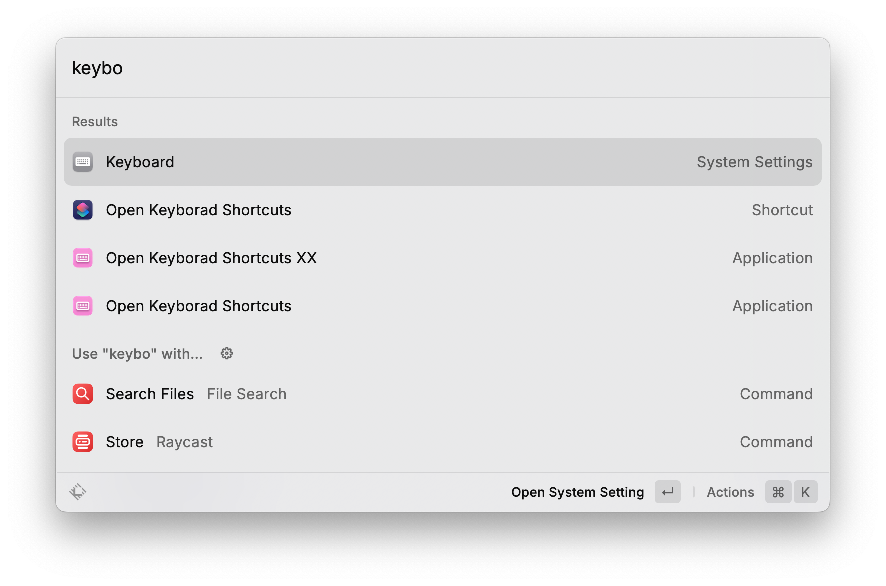
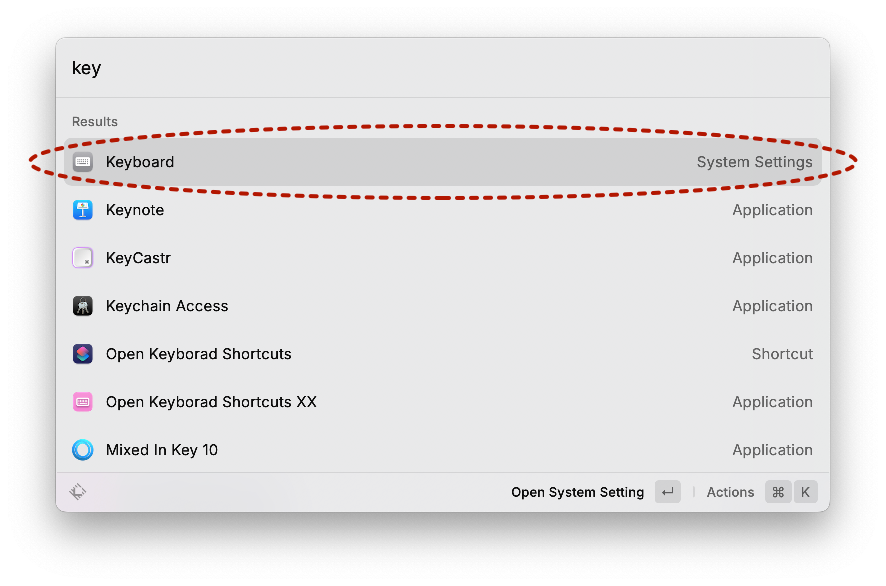
Working on content and add new images

diff --git a/content/post/shortcuts-for-mac.md b/content/post/shortcuts-for-mac.md
@@ -12,16 +12,19 @@ description: 'How to create, edit or remove shortcuts for a macOS'
 tags: ['macOS', 'Shortcuts', 'Sketch', 'Productivity']
 ---
 
-The macOS and the apps installed comes pack with sweet shortcuts but not all is perfect. You can easily find yourself doing the same task over and over again by navigating and clicking items in menus unfitting to [Fitts’s Law](https:/www.notion.so/yonatankof/Fitts-law-062770ad1eff4310aff2a6814467647c). 
+The macOS and its apps comes packed with sweet and effective commands like *Merge All Windows* – but not all is perfect. You can easily find yourself doing the same task over and over again by navigating and clicking items in menus unfitting to [Fitts’s Law](https:/www.notion.so/yonatankof/Fitts-law-062770ad1eff4310aff2a6814467647c). 
 
-Even worse, you didn't click that command because you where too damn lazy navigating them menus. Thus hindering your workflow — which is already quite crippled. Such a shame.
+![The Merge All Windows command in action triggered manually from the menu](/posts/shortcuts-for-macos/Merge_All_Windows_Example.webp)
+*The `Merge All Windows` command in action triggered manually from the menu ☝*
 
-## This article will help you!
+Even worse, you didn't execute the command because you where too damn lazy navigating them menus, thus hindering your workflow — which is already quite crippled. Such a shame.
+
+## How will this article help you?
 
 If you don't know how to create shortcuts for mac, this article will help you by learning:
 
-1. How to set up a shortcut on *macOS*
-2. How to create a shortcut for a specific app
+1. How to set up shortcuts on *macOS*
+2. How to create shortcuts for a specific app
 3. How to override exciting shortcuts
 4. Some advance shortcut methods 
  
@@ -31,7 +34,7 @@ Here are two use cases where custom shortcuts will improve your workflow:
 
 1. **Merge All Windows** - This command is relevant for **all** apps that are multi window: Let's say you find yourself with 7 open *Sketch* files and 6 *Finder* windows, and you're clicking like crazy trying to find the window you're looking for. What an hassle. 
 
-   The `Merge all window` command is a great cleaner upper – It will merge all of your open windows into one window to be shown as tabs.
+   The `Merge All Window` command is a great cleaner upper and I use it all over the place – It will merge all of your open windows into one window to be shown as tabs.
    
    ![Image of the Merge All Windows command in action](/posts/shortcuts-for-macos/Merge_All_Windows.webp)
    *The Merge All Windows command in action ☝*
@@ -43,13 +46,13 @@ Here are two use cases where custom shortcuts will improve your workflow:
 
 Now let's learn how **solve these problems** and have a better workflow 🎉
 
-## Custom macOS shortcut 
+# Custom macOS shortcut 
 
 We'll start with the *Merge All Windows* command.
 
-1. Open the *Keyboard* preferences in the *System Settings*
-   
-   You can use the macOS *Spotlight* search with the `control` + `spacebar`, which is a great shortcut by itself, and start typing what your looking for. We're looking for the *Keyboard* preferences found in the *System Settings*, so I'll start typing `key`, then I'll see it as an option, click it! BTW, I'm using [Raycast](https://www.raycast.com/) instead of the default *Spotlight* search.
+## Merge All Windows
+
+1. Open the *Keyboard* preferences in the *System Settings*. You can use the macOS *Spotlight* search by clicking `control` + `spacebar` (a great shortcut by itself) and start typing what your looking for. We're looking for the *Keyboard* preferences, so I'll start typing `key`, then I'll see it as an option, click it! BTW, I'm using [Raycast](https://www.raycast.com/) instead of the default *Spotlight* search.
 
    ![Raycast search in action](/posts/shortcuts-for-macos/Extra-Spotlight_Search.webp)
    *Raycast search in action ☝*
@@ -59,18 +62,23 @@ We'll start with the *Merge All Windows* command.
    ![The Apple menu - You can fine the preferences menu here](/posts/shortcuts-for-macos/Extra-Apple_Menu.webp){style="max-width: 28ch;"}
    *The Apple menu - You can fine the preferences menu here*
 
-2. Select the *Shortcut* tab and click the *App Shortcut* on left panel
-   ![macOS Keyboard Shortcut Manager](/posts/shortcuts-for-macos/MasOS-Shortcut_Manager.png)
+2. In the *Keyboard* pane click the *Keyboard Shortcuts…* button.
+   
+   ![The Keyboard pane on the System Settings, showing the `Keyboard Shortcuts…` button](/posts/shortcuts-for-macos/Keyboard_Pane.webp){style="max-width: 40ch;"}
+   *The Keyboard pane on the System Settings, showing the `Keyboard Shortcuts…` button*
+   
+3. This will open a new window, in it select the *App Shortcut* tab. At the bottom of the right panel you'll see `+` and `-` buttons. Clicking the `+` button will open a prompt window.
+   
+   ![macOS Keyboard Shortcut Manager](/posts/shortcuts-for-macos/App_Shortcuts_Tab.webp){style="max-width: 40ch;"}
    *macOS Keyboard Shortcut Manager*
-3. At the bottom of the right panel you'll see `+` and `-` buttons. Clicking the `+` button will open a prompt window.
-      ![A prompt widow to add command to an app](/posts/shortcuts-for-macos/MasOS-Add_Shortcut_Prompt.png)
-      *A prompt widow to add command to an app*
-4. In the prompt window you'll see a few inputs, leave the default `All Applications` in the *Application* dropdown.
-5. Type in the `Merge all window ` command in Menu Title input. 
+
+4. In the prompt window you'll see a few inputs. Leave the default `All Applications` in the *Application* first input. Type in the `Merge all window` command in *Menu Title* input. And lastly type the shortcut you want to init the command into the *Keyboard Shortcut* input. You'll have to use a combination of a modifier key/s and a regular key.
+
+   ![macOS Keyboard Shortcut Manager](/posts/shortcuts-for-macos/Prompt_Window.webp){style="max-width: 40ch;"}
+   *macOS Keyboard Shortcut Manager*
    
-   !> Note that you'll have to type the command name verbatim, **exactly** as it appears in the app's menu, including capital letters and spacing.
+   > Note that you'll have to type the command name verbatim, **exactly** as it appears in the app's menu, including capital letters and spacing.
    
-6. Type the shortcut you want into the *Keyboard Shortcut* input. You'll have to use a combination of a modifier key/s and a regular key.
 
    For this shortcut I'll use the `ctrl` `option` `cmd` + `m` combination by typing them while in the input.
 
@@ -81,7 +89,7 @@ We'll start with the *Merge All Windows* command.
    
    > The available modifiers are; `ctrl`, `option`, `cmd` & `shift`. Regular keys are the reset of them; `A` to `Z`, `1` to `0` and the special characters `!@#$%^&*()_+[];',./`.
    
-7. Click `Add` button and there you have it! You've just created a costume shortcut for macOS 🧨 
+6.  Click `Add` button and there you have it! You've just created a costume shortcut for macOS 🧨 
 
 Nice! now you can warp scatted windows like a boss and eliminate that document mess you call a desktop 🧹 
 
@@ -117,22 +125,22 @@ You can also locate and run commands (and much more) in *Sketch* using a plugin 
 
 ## Resolving Identical Commands Conflicts
 
-Shortcuts in mac need to be unique. Let's take for example the *Bottom* command in *Sketch*, if you'll ever create a shortcut for it as explain above, it won't work. The reason is, this command ain't unique. You can find it both under `Text` and under `Arrange`. The app won't know which *Bottom* you're referring to, so it will make a decision for you and it might not be the one you wanted 😒 
+Shortcuts in mac need to be unique. Let's take for example the *Align Centre* commands in *Affinity Photo*, if you'll ever create a shortcut for it as explain above, it won't work. The reason is, this command ain't unique. That is, you can find the same commands both under `Text` and under `Arrange` menu items. The app won't know which *Align* you're referring to, so it might keep the default or have noe affect at all 😒 
 
-You'll have to make it unique for it to work, one way to do so is by adding its location. Let's brake it down:
-- `Text → Align → Bottom`
-- `Arrange → Align → Bottom`
+You'll have to make it unique for it to work, and the way to do so is by adding its exact path:
+- Text ▸ Alignment ▸ Align Centre
+- Layer ▸ Align Centre
 
-![The two Left commands](/posts/shortcuts-for-macos/Sketch_Menu_Left.png)
-*The two Left commands*
+![The two Align Centre commands](/posts/shortcuts-for-macos/Sketch_Menu_Left.png)
+*The two `Align Centre` commands ☝*
   
-`Bottom` and `Align` are identical at both command — `Text` and `Arrange` are unique. So let's say you wanna shortcut the `Arrange` bit, so you'll need to copy the complete path by using the `dash` + `greater than` pattern to mark nest descent. So the Bottom align arrange command needs to look like this: 
+Since both commands are identical – the path will make them unique. So let's say you wanna shortcut for the Layer's Align Centre bit, you'll need to add the complete path and  `-` + `>` to separate the menu items. So the `Layer ▸ Align Centre` arrange command needs to look like this: 
 ```
-Arrange->Align->Bottom
+Layer->Align Centre
 ``` 
 There you have it, a command the is unique as a snowflake ❄
 
-I'll make sure the Application is on *Sketch* and for the shortcut I'll use the `ctrl` + `option` + `cmd` + `shift` + `→` and voila — a unique shortcut is born 👶 
+<!-- I'll make sure the Application is on *Sketch* and for the shortcut I'll use the `ctrl` + `option` + `cmd` + `shift` + `→` and voila — a unique shortcut is born 👶 
 
 ## Create memorial shortcut
 
@@ -163,6 +171,8 @@ The app is called [Karabiner-Elements](https:/karabiner-elements.pqrs.org) and i
    ![A prompt window to enable the command+control+option+shift as Caps lock on Karabiner](/posts/shortcuts-for-macos/Karabiner_Elements-02-Add_rule.png)
    *A prompt window to enable the command+control+option+shift as `Caps lock` on Karabiner*
 
-That's it, you have it! Now you can add a command using all for 4 keys but clicking just the one key. So now, if you'd like to have the *Collapse All Groups* with `Caps lock` + `c`. Try it, it's nice.
+That's it, you have it! Now you can add a command using all for 4 keys but clicking just the one key. So now, if you'd like to have the *Collapse All Groups* with `Caps lock` + `c`. Try it, it's nice.  -->
 
-Well, that's all for today. See you in the next post when we'll deal with the Sketch plugin short cuts
+## Well, that's all for today!
+
+See you in the next post 👋
